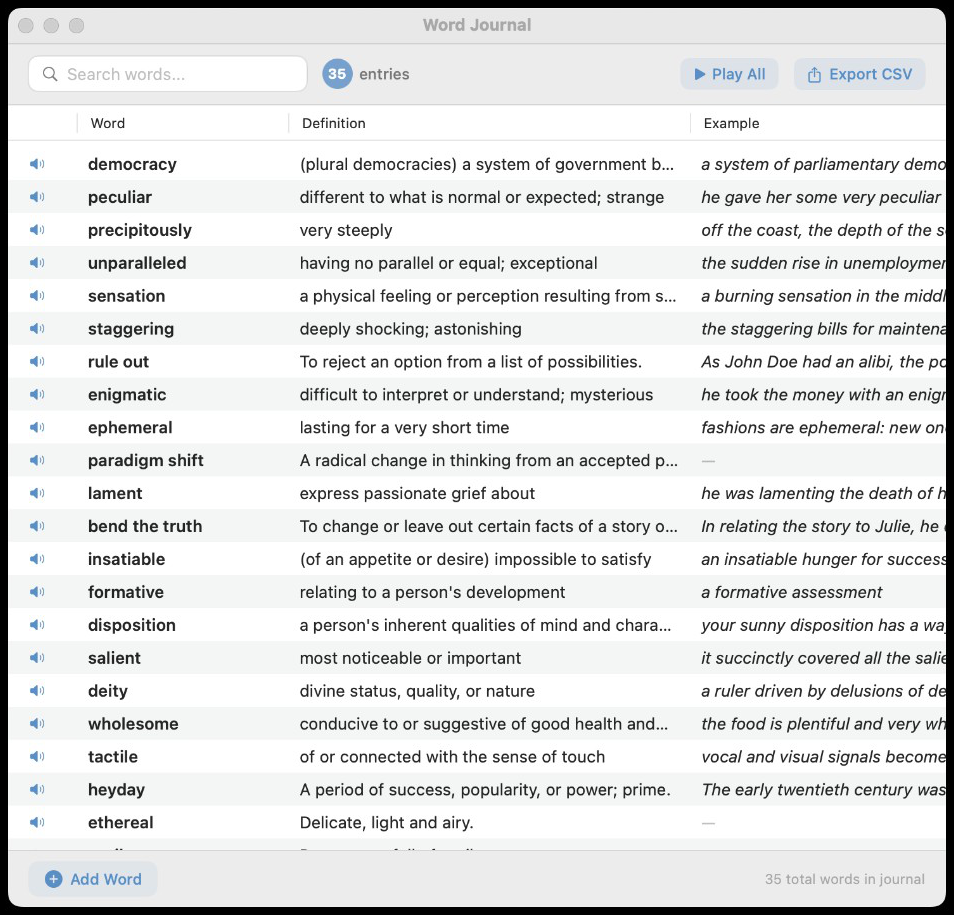
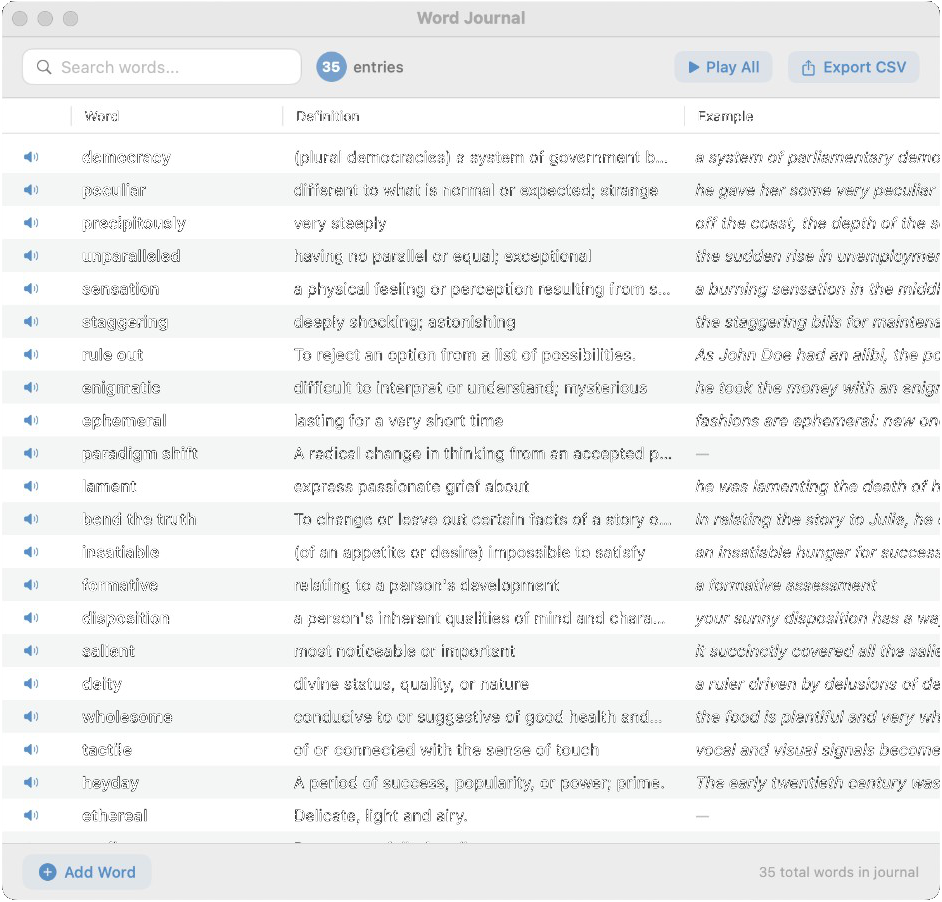
Remove black background from journal screenshot (transparent + crop)
Made-with: Cursor

diff --git a/docs/index.html b/docs/index.html
@@ -420,7 +420,7 @@
         </figure>
         <figure class="screenshot">
           <figcaption>Editable journal with search & sort</figcaption>
-          <img src="https://raw.githubusercontent.com/shawn0808/WordJournal/main/screenshots/journal.png" alt="Editable journal">
+          <img src="https://raw.githubusercontent.com/shawn0808/WordJournal/main/screenshots/journal.png?v=2" alt="Editable journal">
         </figure>
         <figure class="screenshot">
           <figcaption>Menu bar — type a word or pick from recent</figcaption>
